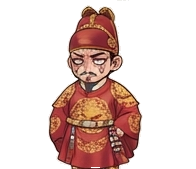
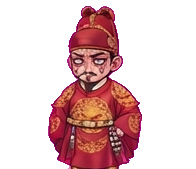
NPC 초상화를 마젠타 배경 시트로 재추출(크롭 경계 개선 + 깔끔한 투명화)
기존 크림색 배경 시트 대신 사용자가 마젠타 배경으로 새로 뽑은 시트로
교체. flood-fill 대신 직접 색상거리 임계값으로 배경 제거(crop_and_key.py)
— 마젠타는 캐릭터 옷 색과 겹칠 일이 거의 없어 더 깔끔함. 단, 정도전의
남색 도포처럼 어두운 톤 옷은 격자 구분선(남색) 오인식 위험이 있어
디바이더 색상 키잉은 빼고 순수 마젠타 거리만 사용, 크롭 여백을 넉넉히
줘서 격자선 자체가 안 걸리게 처리. 소프트 알파+색상 디컨탐도 시도했으나
원본 압축 노이즈가 경계부에서 증폭돼 하드 컷으로 되돌림.

Changed region(s): [[0.2449, 0.0296, 0.7347, 1.0]]

diff --git a/www/assets/portraits/crop_and_key.py b/www/assets/portraits/crop_and_key.py
@@ -1,0 +1,44 @@
+#!/usr/bin/env python3
+"""마젠타 배경 시트에서 20인 크롭 + 배경 투명화(직접 색상 임계값,
+마젠타는 캐릭터 옷 색과 겹칠 일이 없어 flood-fill보다 훨씬 깔끔하다)."""
+from PIL import Image
+import numpy as np
+
+SRC = 'npc_sheet_magenta.png'
+COLS, ROWS = 5, 4
+PAD_TOP = 20
+PAD_SIDE = 22
+
+LABELS = [
+    'jeongdojeon', 'taejong', 'sejong', 'sinsukju', 'kimjongseo',
+    'sejo', 'seongsammun', 'seogeojeong', 'yeonsangun', 'jogwangjo',
+    'josik', 'josik2', 'yihwang', 'kimilson', 'commoner1',
+    'commoner2', 'gungnyeo', 'naesi', 'general', 'scholar',
+]
+
+im = Image.open(SRC).convert('RGB')
+W, H = im.size
+cw, ch = W / COLS, H / ROWS
+LABEL_BAND = int(ch * 0.16)
+
+MAGENTA = np.array([246, 26, 246])
+THRESH = 95  # 압축 노이즈로 경계부 색이 지저분해서 소프트 알파/디컨탐 대신 확실한 하드 컷 사용
+
+for i, name in enumerate(LABELS):
+    col, row = i % COLS, i // COLS
+    x0 = int(col * cw) + PAD_SIDE
+    y0 = int(row * ch) + PAD_TOP
+    x1 = int((col + 1) * cw) - PAD_SIDE
+    y1 = int((row + 1) * ch) - LABEL_BAND
+    crop = im.crop((x0, y0, x1, y1))
+
+    arr = np.array(crop).astype(np.int16)
+    dist_m = np.sqrt(((arr - MAGENTA) ** 2).sum(axis=-1))
+    is_bg = dist_m < THRESH
+
+    rgba = np.dstack([arr.astype(np.uint8), np.full(arr.shape[:2], 255, np.uint8)])
+    rgba[..., 3] = np.where(is_bg, 0, 255)
+
+    out = Image.fromarray(rgba, 'RGBA')
+    out.save(f'{name}.png')
+    print(name, out.size, f'{is_bg.mean()*100:.1f}% removed')
